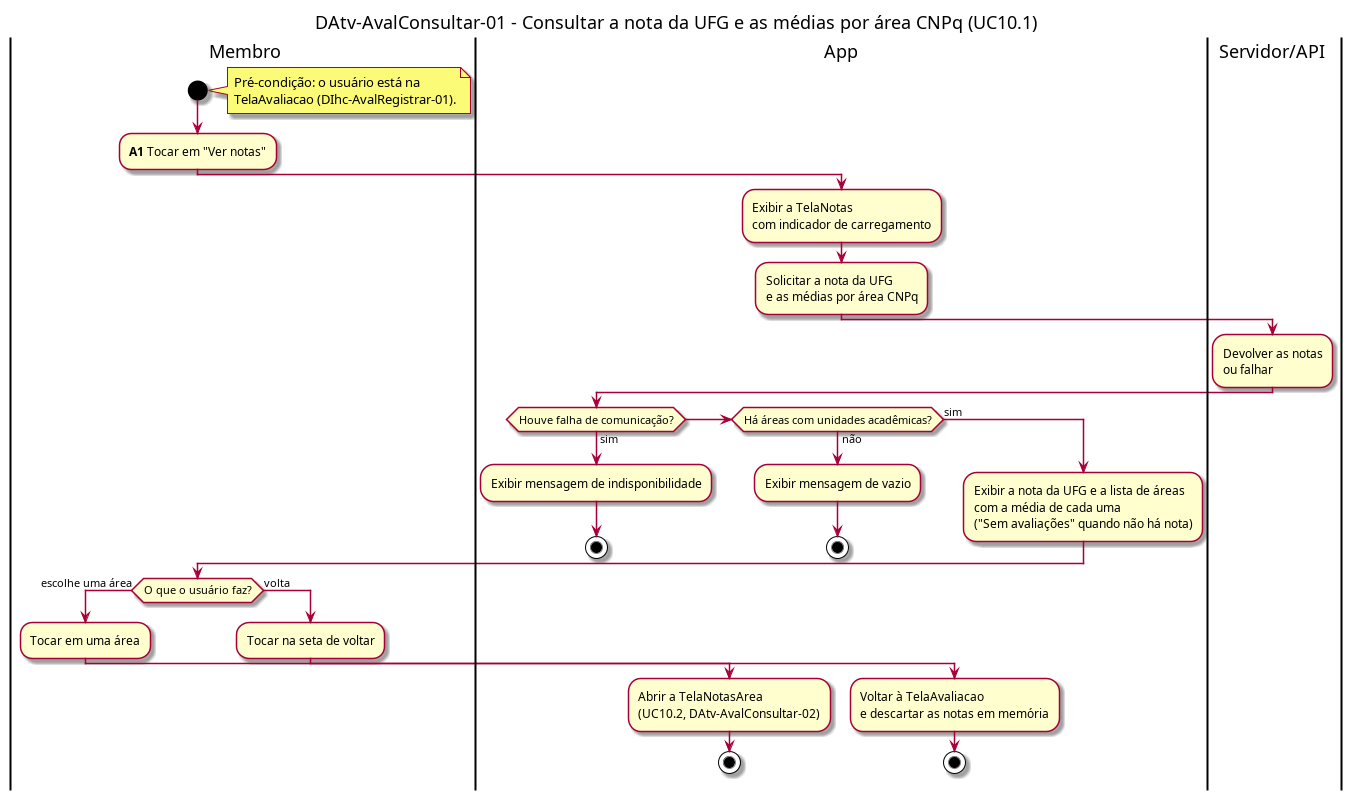
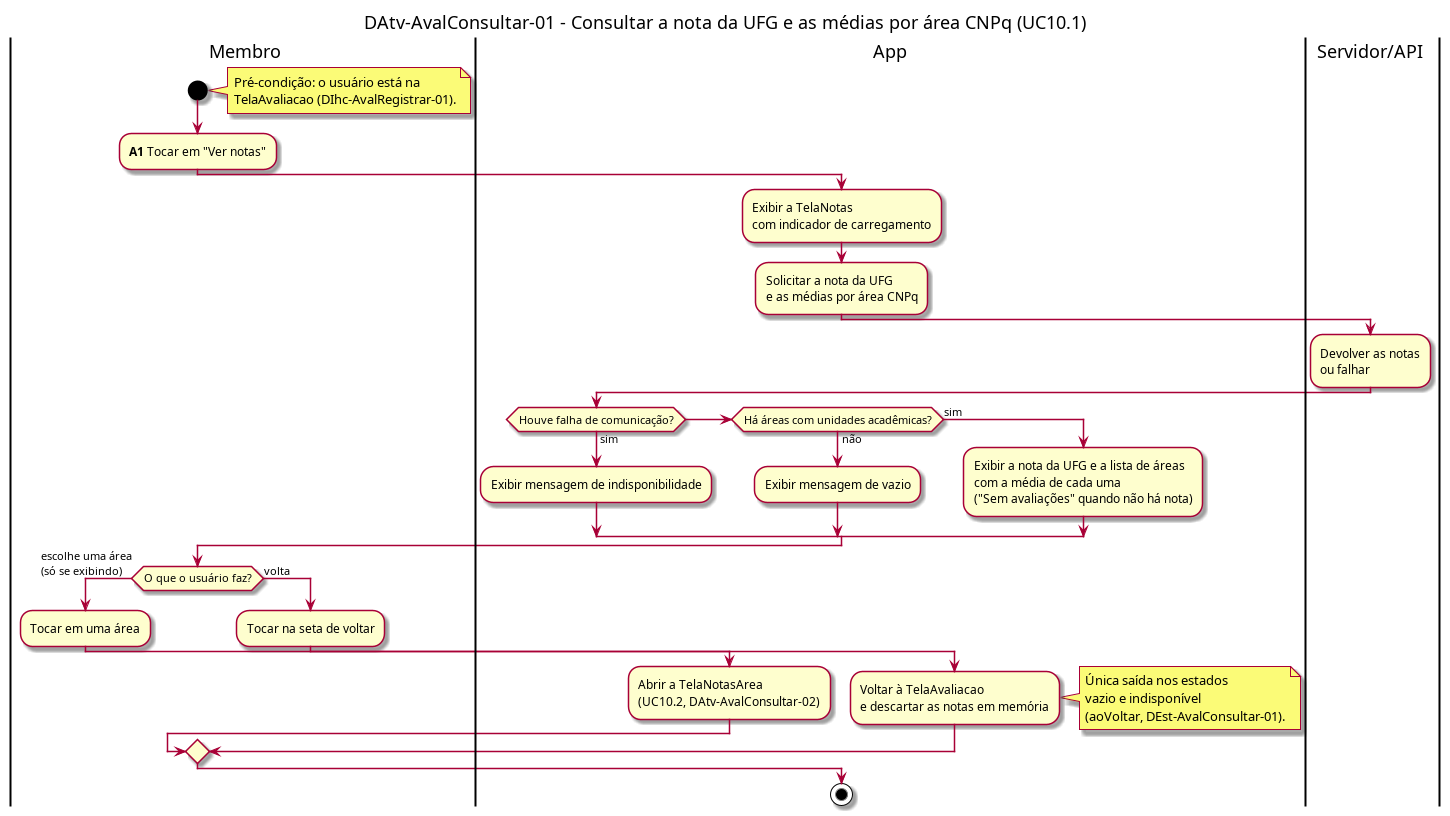
D-AVC: correções da revisão do PR #12
B1: atributo acesso em TelaNotasUA (DCla-AvalConsultar-01).
B2: fluxo final dos DAtv-AvalConsultar-01 e 02 reorganizado, sem sobreposição.
Sugestões: saída de vazio e indisponível explícita nos DAtv-01 e 02;
pacote Locais identificado por letra em DCmp-AvalRegistrar-01.

Changed region(s): [[0.0, 0.0, 0.9941, 1.0]]

diff --git a/AvalConsultar/DAtv-AvalConsultar-01.md b/AvalConsultar/DAtv-AvalConsultar-01.md
@@ -19,7 +19,7 @@ Fonte: [`DAtv-AvalConsultar-01.puml`](DAtv-AvalConsultar-01.puml)
 
 Atividades do UC10.1 do `DCdu-AvalConsultar-01`, em raias: Membro, App e Servidor/API. A funcionalidade é nova e não existe no app atual.
 
-Ao tocar em "Ver notas" na `TelaAvaliacao` (E2 do `DIhc-AvalRegistrar-01`), o app abre a `TelaNotas` (`DIhc-AvalConsultar-01`), mostra o indicador de carregamento e pede ao Servidor/API a nota da UFG e as médias por área. A resposta segue o ciclo genérico de tela remota (`DEst-Comum-01`): exibindo, vazio ou indisponível. Nos dois últimos casos, o usuário só sai pela seta de voltar, pois o Comum não tem "tentar de novo". Área sem nenhuma UA avaliada aparece com "Sem avaliações" (P-AC-4); isso não é o estado vazio, que ocorre só quando não há área nenhuma.
+Ao tocar em "Ver notas" na `TelaAvaliacao` (E2 do `DIhc-AvalRegistrar-01`), o app abre a `TelaNotas` (`DIhc-AvalConsultar-01`), mostra o indicador de carregamento e pede ao Servidor/API a nota da UFG e as médias por área. A resposta segue o ciclo genérico de tela remota (`DEst-Comum-01`): exibindo, vazio ou indisponível. Nos dois últimos casos, o usuário só sai pela seta de voltar, pois o Comum não tem "tentar de novo"; por isso os três desfechos convergem na escolha do usuário, e a escolha de uma área só é possível quando a lista está exibida. Área sem nenhuma UA avaliada aparece com "Sem avaliações" (P-AC-4); isso não é o estado vazio, que ocorre só quando não há área nenhuma.
 
 Com as áreas exibidas, o usuário escolhe uma área, o que continua em `DAtv-AvalConsultar-02`, ou volta à `TelaAvaliacao`, e as notas em memória são descartadas.
 

diff --git a/AvalConsultar/DAtv-AvalConsultar-02.md b/AvalConsultar/DAtv-AvalConsultar-02.md
@@ -19,7 +19,7 @@ Fonte: [`DAtv-AvalConsultar-02.puml`](DAtv-AvalConsultar-02.puml)
 
 Atividades do UC10.2 do `DCdu-AvalConsultar-01`, em raias: Membro, App e Servidor/API.
 
-Ao tocar em uma área na `TelaNotas` (E1 do `DIhc-AvalConsultar-01`), o app abre a `TelaNotasArea` (`DIhc-AvalConsultar-02`), mostra o indicador de carregamento e pede ao Servidor/API as UAs da área com suas notas. A resposta segue o ciclo de tela remota (`DEst-Comum-01`). Com sucesso, o app mostra a média da área e a lista de UAs, com nome, sigla e nota, na ordem recebida; UA sem avaliações aparece com "Sem avaliações" e não entra na média (P-AC-4). O vazio ocorre quando a área não tem UA nenhuma.
+Ao tocar em uma área na `TelaNotas` (E1 do `DIhc-AvalConsultar-01`), o app abre a `TelaNotasArea` (`DIhc-AvalConsultar-02`), mostra o indicador de carregamento e pede ao Servidor/API as UAs da área com suas notas. A resposta segue o ciclo de tela remota (`DEst-Comum-01`). Com sucesso, o app mostra a média da área e a lista de UAs, com nome, sigla e nota, na ordem recebida; UA sem avaliações aparece com "Sem avaliações" e não entra na média (P-AC-4). O vazio ocorre quando a área não tem UA nenhuma. Como no `DAtv-AvalConsultar-01`, os três desfechos convergem na escolha do usuário: nos estados vazio e indisponível, a única saída é a seta de voltar (`DEst-AvalConsultar-02`).
 
 O usuário escolhe uma UA, o que continua em `DAtv-AvalConsultar-03`, ou volta à `TelaNotas`, que é recarregada ao ser exibida de novo (sem cache, `DEst-Comum-01`).
 

diff --git a/IA/registro-D.md b/IA/registro-D.md
@@ -398,3 +398,20 @@ ANTHROPIC. **Claude Code**. Assistente de IA. Disponível em: https://claude.com
 ### Referência (ABNT)
 
 ANTHROPIC. **Claude Code**. Assistente de IA. Disponível em: https://claude.com/claude-code. Acesso em: 1 nov. 2026. Questão: Apêndice <X>, Seção <X.1>.
+
+## D-IA-16 – Correções da revisão do PR #12 (D-AVC)
+
+- **IA:** Anthropic. Claude Code (Claude Opus 5.5). Assistente de IA.
+- **URL:** https://claude.com/claude-code
+- **Data de acesso:** 1 de novembro de 2026.
+- **Contexto fornecido:** parecer de revisão do PR #12 (Pessoa B) e itens de `AvalConsultar/`.
+- **Itens produzidos:** ajustes em `DCla-AvalConsultar-01` (atributo `acesso` de `TelaNotasUA`), `DAtv-AvalConsultar-01` e `02` (fluxo final reorganizado e saída pelos estados vazio e indisponível) e `DCmp-AvalRegistrar-01` (nome do pacote Locais por letra).
+- **Uso da resposta:** aplicação das correções apontadas na revisão, conferida pela Pessoa D.
+
+### Prompt 1
+
+> maicon fez o code review do pr. corrija os bloqueantes e faça as sugestões sugeridas. coloque em um commit só.
+
+### Referência (ABNT)
+
+ANTHROPIC. **Claude Code**. Assistente de IA. Disponível em: https://claude.com/claude-code. Acesso em: 1 nov. 2026. Questão: Apêndice <X>, Seção <X.1>.

diff --git a/AvalConsultar/DCla-AvalConsultar-01.md b/AvalConsultar/DCla-AvalConsultar-01.md
@@ -21,7 +21,7 @@ Classes do componente `TelasNotas`. Cada método `ao...` corresponde a um evento
 
 - **TelaNotas:** `aoExibir` (E0) cria a `FonteNotasUFG` e o controlador e chama `aoEntrarNaTela`; `aoEscolherArea` (E1) cria a `TelaNotasArea` da área; `aoVoltar` (E2) volta à `TelaAvaliacao`. Mostra a nota da UFG pedindo `obterNotaUfg()` à fonte depois do estado `EXIBINDO`.
 - **TelaNotasArea:** recebe a `MediaArea` tocada; `aoExibir` cria a `FonteNotasArea` com `area.areaConhecimento`; `aoEscolherUA` cria a `TelaNotasUA` com `nota.unidade`; `aoVoltar` volta à `TelaNotas`, que recarrega (sem cache).
-- **TelaNotasUA:** recebe a `UnidadeAcademica`; `aoExibir` cria a `FonteNotasUnidade`; `aoVoltar` volta à `TelaNotasArea`.
+- **TelaNotasUA:** recebe a `UnidadeAcademica` e guarda o `IAcessoApi` (`acesso`), como as outras duas telas; `aoExibir` cria a `FonteNotasUnidade`; `aoVoltar` volta à `TelaNotasArea`.
 - **aoMudarEstado** (das três): reage aos estados do Comum (`DCla-Comum-03`), mostrando carregando, lista, vazio ou indisponível.
 - **FormatoNota:** converte uma nota em texto com uma casa decimal ("4,3", P-AC-5), ou em "Sem avaliações" quando a nota está ausente (P-AC-4). Fica num só lugar para as três telas não repetirem a regra.
 
